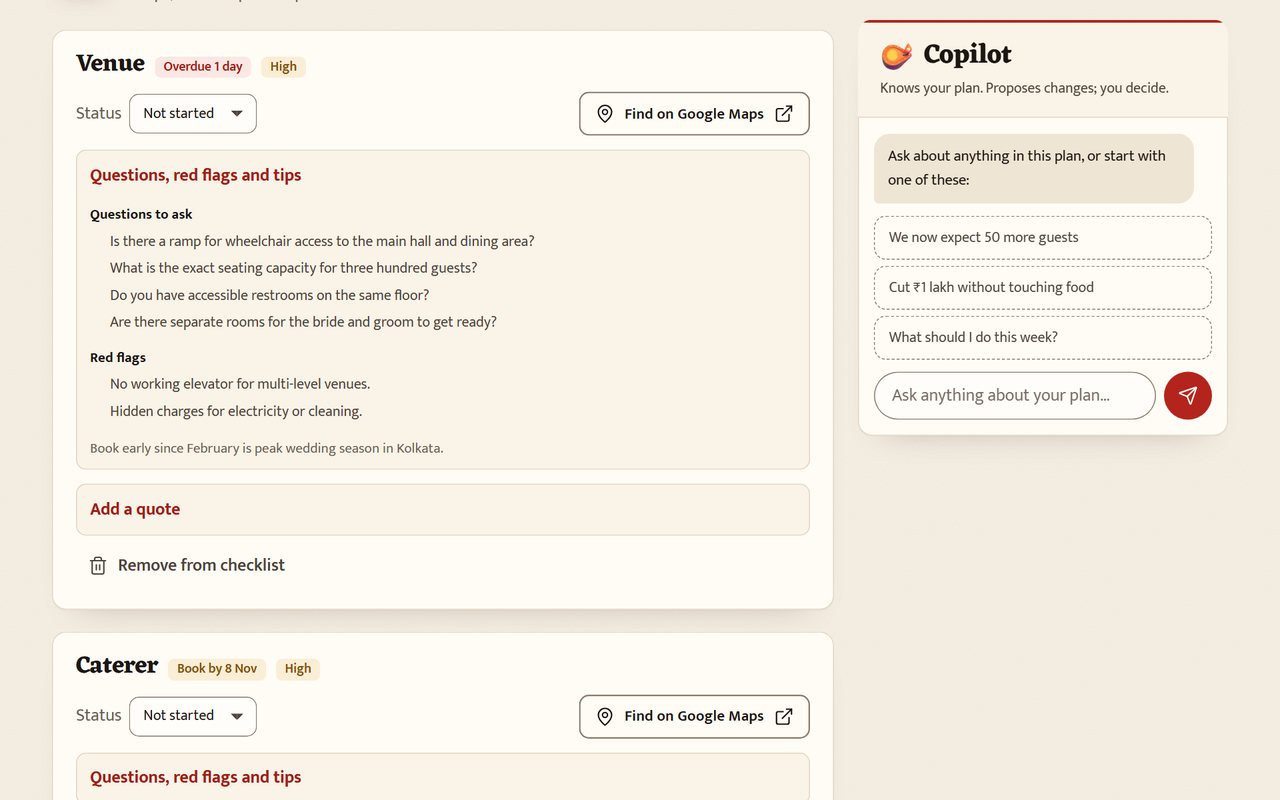
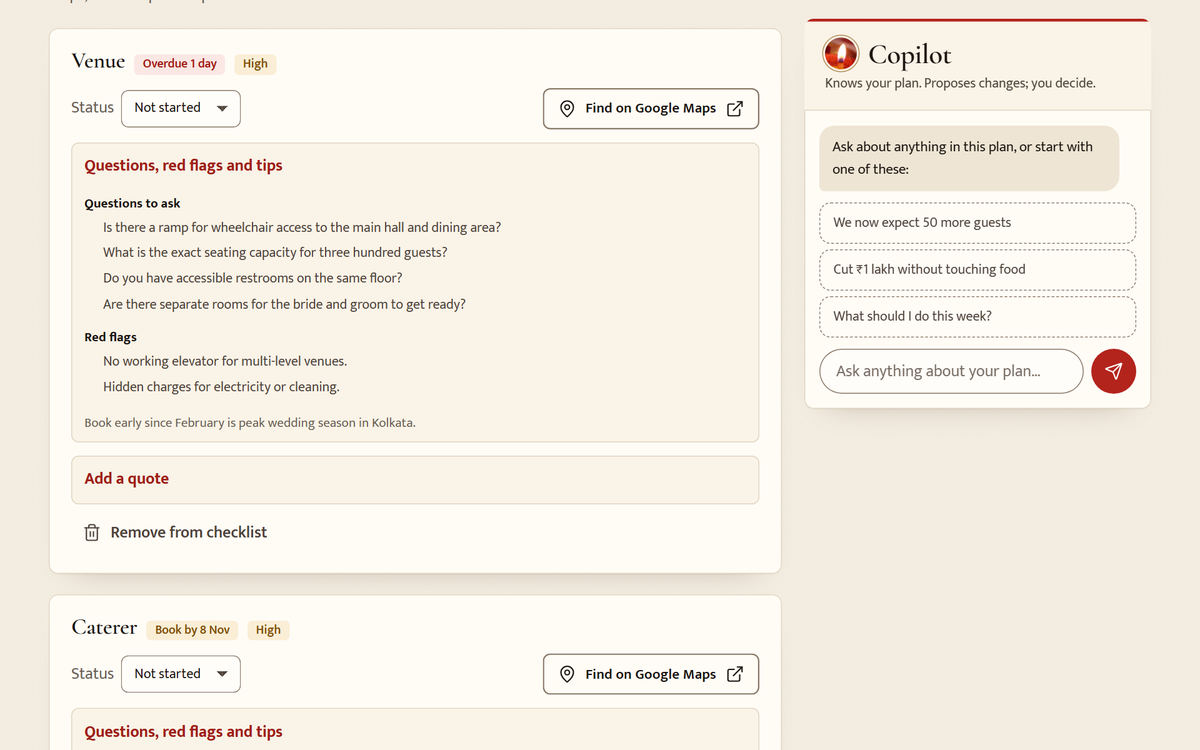
docs: the photographic design, photo credits and new screenshots
The design guide describes the photographs, the jharokha arch, the
invitation typography and the motion; the accessibility notes cover the
hero's Pause button; AGENTS.md rule 11 points to src/client/photos. The README
screenshots show the new look (1.4 MB, lighter than before), credit every
photographer, and carry the latest test figures.

diff --git a/README.md b/README.md
@@ -1,6 +1,6 @@
 <div align="center">
 
-<img src="docs/images/banner.jpg" width="100%" alt="Mehfil: one planner for every celebration. The headline beside a 3D puja thali with a lit diya, with a lotus, a ring, a birthday cake, marigolds, a balloon, an elephant and a gift floating around it">
+<img src="docs/images/banner.jpg" width="100%" alt="Mehfil: one planner for every celebration. The headline, with 'celebration' in maroon italic, above the box to describe a celebration; beside it, a photograph of a bride with folded hands in a pointed arch with a fine gold outline, a diya's flame in a round medallion at its foot, and the caption 'Shubh Vivah: Haldi to bidaai, with both families'">
 
 # Mehfil
 
@@ -108,17 +108,18 @@ rules. Every Gemini answer passes through deterministic rules that react to the 
 
 ## Screenshots
 
-Every occasion gets its own look. The home page stays calm and neutral; a plan takes on its
-occasion's colours, decorations and 3D objects, recognised from what you wrote in any of the
-three languages, and the first time it opens, the occasion plays for a few seconds.
+Every occasion gets its own look. The home page stays calm and neutral; a plan opens like its
+occasion's invitation card, in its colours and with its photograph, recognised from what you
+wrote in any of the three languages, and the first time it opens, the occasion plays for a few
+seconds.
 
 <p align="center">
-  <img src="docs/images/moods.jpg" width="100%" alt="Six plan headers: a wedding in a red border under a toran of 3D marigolds, with a ring and a bouquet; a Durga Puja in a red and gold sari border with a lotus and a hibiscus; a Ganesh Chaturthi with a turning sunburst, an elephant and a coconut; a birthday under bunting with balloons and a cake; a Diwali on a night sky with glowing hanging lanterns and a lit diya; and a neighbourhood festival under a toran with a kite">
+  <img src="docs/images/moods.jpg" width="100%" alt="Six plan headers set like invitation cards, each with a double border in its occasion's colour and its photograph in an arch: a wedding with a garlanded bride, a Durga Puja with the goddess's face in gold filigree and a red sari border, a Ganesh Chaturthi on saffron paper with a brass lamp before the idol, a birthday with candles on a cake, a Diwali night card with a ring of lamps round a rangoli, and a neighbourhood festival with two women celebrating with colour; each shows the days to go and how many of six parts have begun">
 </p>
 <p align="center">
-  <img src="docs/images/moments.jpg" width="100%" alt="Six celebration moments: the couple circling the havan fire for the pheras under 'Shubh Vivah', a dhaki drumming before red curtains under 'Shubho Sharodiya', rockets bursting over 'Shubh Deepavali' above a row of glowing diyas, an elephant under a sunburst and falling marigolds for 'Ganpati Bappa Morya!', balloons and confetti for 'Happy birthday!', and a ring of marigolds around a diya for 'Let the festival begin!'">
+  <img src="docs/images/moments.jpg" width="100%" alt="Six celebration moments, each a photograph filling the screen: feet circling the sacred fire under 'Shubh Vivah', dhakis drumming with feathered drums, rockets bursting over a ring of lamps under 'Shubh Deepavali', a brass lamp before Ganpati under 'Ganpati Bappa Morya!', confetti over birthday candles under 'Happy birthday!', and coloured powder over a crowd under 'Let the festival begin!'">
 </p>
-<p align="center"><sub>Celebration moments: the pheras round the fire, a dhaki drumming before the curtains part, rockets over Diwali, Ganpati, a birthday and other festivals. Each lasts a few seconds, ends on any key or a tap, and never plays for people who ask for reduced motion.</sub></p>
+<p align="center"><sub>Celebration moments: the saptapadi by the sacred fire, dhakis drumming before red sari curtains close and part, rockets over Diwali, Ganpati, a birthday and other festivals. Each lasts a few seconds, ends on any key or a tap, and never plays for people who ask for reduced motion.</sub></p>
 
 The plan below was tailored by real Gemini from one sentence: _"A Bengali wedding of Ananya and
 Rohan in Kolkata on 14 Feb 2027 for about 300 guests. Budget ₹18 lakh, mostly vegetarian, and my
@@ -127,11 +128,11 @@ grandparents need wheelchair access."_
 <table>
   <tr>
     <td width="50%" valign="top">
-      <img src="docs/images/wedding.jpg" alt="The wedding plan's header: a red border inside ivory paper under a toran of 3D marigolds and mango leaves, 'Shubh Vivah · Together with their families', Ananya and Rohan, Sunday 14 February 2027 in Kolkata for 300 guests and ₹18,00,000, a 3D ring and bouquet, the days to go above six diyas, two of them lit, and 'Celebrate again'; below, the section tabs, Gemini's summary and the Copilot">
-      <p><b>Every plan takes on its occasion.</b> The countdown, the key facts, and a diya for each part of the plan that has begun.</p>
+      <img src="docs/images/wedding.jpg" alt="The wedding plan's header as an invitation card: a double red border on ivory paper, 'Shubh Vivah · Together with their families' in small capitals, Ananya and Rohan, Sunday 14 February 2027 in Kolkata for 300 guests and ₹18,00,000, the days to go and how many parts have begun, and the bride's photograph in its arch; below, the section tabs, Gemini's summary and the Copilot">
+      <p><b>Every plan opens like its invitation.</b> The occasion's photograph in its arch, the countdown, the key facts and how many parts of the plan have begun.</p>
     </td>
     <td width="50%" valign="top">
-      <img src="docs/images/copilot.jpg" alt="The Copilot beside Today's focus: the request for 50 more guests and a mehendi night, the answer 'I suggest 2 changes', and ticked proposals for guests from 300 to 350 and a new task to plan and organise the mehendi night on 5 December, with Apply 2 changes and Dismiss buttons">
+      <img src="docs/images/copilot.jpg" alt="The Copilot beside Today's focus: the request for 50 more guests and a mehendi night, the answer 'I suggest 2 changes', and ticked proposals for guests from 300 to 350 and a new task to organise the mehendi night and its catering on 20 December, with Apply 2 changes and Dismiss buttons">
       <p><b>The Copilot proposes, you decide.</b> "We now expect 50 more guests, and we want a mehendi night too" becomes two changes to review, apply or dismiss.</p>
     </td>
   </tr>
@@ -141,7 +142,7 @@ grandparents need wheelchair access."_
       <p><b>A budget that adds up.</b> Gemini suggests each line's share and why; code computes every rupee, so the lines always meet the total.</p>
     </td>
     <td width="50%" valign="top">
-      <img src="docs/images/timeline.jpg" alt="The timeline grouped by phase: '3 to 6 months before' with 'Set the total budget and guest-list size' due today and 'Book the venue' due 6 November, both high priority and brought forward, then '1 to 3 months before' with the caterer, the photographer, the ceremony timings, the decorator and the outfits">
+      <img src="docs/images/timeline.jpg" alt="The timeline grouped by phase: '3 to 6 months before' with 'Set the total budget and guest-list size' a day overdue and 'Book the venue' due 6 November, both high priority and brought forward, then '1 to 3 months before' with the caterer, the photographer, the ceremony timings, the decorator and the outfits">
       <p><b>A timeline counted back from the date.</b> Grouped by how far ahead each task falls, brought forward when time is short, and exported to any calendar with reminders.</p>
     </td>
   </tr>
@@ -157,18 +158,18 @@ grandparents need wheelchair access."_
   </tr>
   <tr>
     <td width="50%" valign="top">
-      <img src="docs/images/home-hindi.jpg" alt="The home page in Hindi: the headline 'हर उत्सव के लिए एक योजनाकार।' with 'उत्सव' marked in marigold, a box to describe the celebration, and the 3D thali scene">
+      <img src="docs/images/home-hindi.jpg" alt="The home page in Hindi: the headline 'हर उत्सव के लिए एक योजनाकार।' with 'उत्सव' in maroon, a box to describe the celebration, and the bride's photograph in its arch">
       <p><b>English, Hindi and Bengali.</b> The whole interface switches language, and Gemini can write the plan in 16 languages.</p>
     </td>
     <td width="50%" valign="top">
-      <img src="docs/images/night-theme.jpg" alt="The same wedding plan in the night theme: warm ink black around the red border, the marigold toran, the ring and bouquet and the countdown">
+      <img src="docs/images/night-theme.jpg" alt="The same wedding plan in the night theme: warm ink black around the red double border, the bride's photograph in its arch, the countdown and the overview cards">
       <p><b>Day and night themes.</b> The day theme follows the device's setting until you choose. Every colour pair, in every occasion's colours, is checked for contrast in the tests.</p>
     </td>
   </tr>
 </table>
 
 <p align="center">
-  <img src="docs/images/phones.jpg" width="100%" alt="Three phones: the home page in Bengali, the wedding plan with its countdown and 3D diyas, and the Durga Puja moment with a dhaki drumming before red curtains">
+  <img src="docs/images/phones.jpg" width="100%" alt="Three phones: the home page in Bengali with the photograph under the headline, the wedding plan's invitation card with the photograph above the names, and the Durga Puja moment with a dhaki and his feathered drum">
 </p>
 <p align="center"><sub>On a phone: the home page in Bengali, a wedding plan, and the Durga Puja moment.</sub></p>
 
@@ -182,7 +183,7 @@ grandparents need wheelchair access."_
 | **Timelines**                                | Tasks scheduled back from the date and brought forward when time is short, grouped by phase, with priorities, filters and a countdown. A calendar file with reminders, "Add to Google Calendar" on every task, and a printable day-of run sheet for multi-day celebrations.                                         |
 | **Vendor checklists**                        | What to book and by when, a status pipeline from "not started" to "paid", questions to ask and red flags, quote comparison (the chosen quote counts in the budget), and a Google Maps search for each category in your city.                                                                                        |
 | **Personalised ideas**                       | Themes with colour palettes, food, decor, entertainment, activities, personal touches, favours and greener choices, shaped by your traditions, diets and budget. Keep the ones you like; ask for different ones in your own words.                                                                                  |
-| **Made for the occasion**                    | The plan takes on its occasion's colours, decorations and 3D objects (wedding, Durga Puja, Ganpati, birthday, Diwali or another festival), and the first time it opens it plays a few seconds of that celebration.                                                                                                  |
+| **Made for the occasion**                    | The plan opens like its occasion's invitation card, in its colours and with a real photograph of the festival (wedding, Durga Puja, Ganpati, birthday, Diwali or another festival), and the first time it opens it plays a few seconds of that celebration.                                                         |
 | **Beyond the brief**                         | A guest list with RSVPs and diets that feeds catering numbers (CSV import and export), an invitation writer for WhatsApp, email, cards and social posts, readiness at a glance, sync across devices, and read-only share links.                                                                                     |
 
 ## How Gemini is used
@@ -324,7 +325,7 @@ The full picture, including the data model and the request pipeline, is in
 
 | Check                                                                                             | Result                                                                                        |
 | ------------------------------------------------------------------------------------------------- | --------------------------------------------------------------------------------------------- |
-| Unit, integration and component tests (Vitest, Testing Library, jest-axe, fast-check)             | **800 passing**; 96.7 % of lines and 87.3 % of branches covered, with per-layer gates in CI   |
+| Unit, integration and component tests (Vitest, Testing Library, jest-axe, fast-check)             | **815 passing**; 97.4 % of lines and 88.8 % of branches covered, with per-layer gates in CI   |
 | Firestore Security Rules and the Firebase adapter (emulator)                                      | **13 passing**                                                                                |
 | Browser journeys (Playwright on desktop and a phone, axe on every page, reflow at 390 and 320 px) | **44 passing**                                                                                |
 | Gemini evaluation (six sample celebrations, real API)                                             | **6 of 6** pass every check                                                                   |
@@ -338,15 +339,15 @@ dependency audit. Details in [docs/TESTING.md](docs/TESTING.md).
 
 ## How it meets the judging criteria
 
-| Criterion             | What Mehfil does                                                                                                                                                                                                                                                                                                                                 | Evidence                                                                                 |
-| --------------------- | ------------------------------------------------------------------------------------------------------------------------------------------------------------------------------------------------------------------------------------------------------------------------------------------------------------------------------------------------ | ---------------------------------------------------------------------------------------- |
-| **Problem alignment** | Every part of the brief is a working, editable, saved feature (see [Features](#features)), with Gemini doing real planning work rather than chat, and decisions that follow the user's context (see [Approach and logic](#approach-and-logic)).                                                                                                  | `src/client/features/`, `e2e/plan.spec.ts`                                               |
-| **Code quality**      | Strict TypeScript and strict type-checked lint rules; one shared schema contract for browser, server and Gemini; one pure function for every edit, so undo is free; a dependency-injected server; typed translations, where a missing string fails the build; documented decisions.                                                              | `src/shared/`, `eslint.config.js`, [ADRs](docs/adr/)                                     |
-| **Security**          | The key stays on the server; a strict CSP with no inline code or `eval`; rate limits and Firebase token checks on AI calls; prompt-injection containment and output cleaning; tested Firestore rules; a CSV-injection guard; a secret scan in CI.                                                                                                | [SECURITY.md](SECURITY.md), `firestore.rules`, `src/server/security/`                    |
-| **Efficiency**        | AI suggests and code computes; sections stream in parallel; a response cache and per-model request budget for the free tier; a prerendered home page; the React Compiler memoises components; routes, languages, Firebase and dialogs load on demand; 3D pictures are small WebPs that wait until the page has loaded; Brotli; fonts per script. | [ARCHITECTURE.md](docs/ARCHITECTURE.md), [ADR 5](docs/adr/0005-prerender-and-hydrate.md) |
-| **Testing**           | 800 unit, integration and component tests (96.7 % of lines), 13 emulator tests for the Firestore rules and Firebase adapter, 44 browser journeys on desktop and phone, and an evaluation against real Gemini.                                                                                                                                    | [TESTING.md](docs/TESTING.md)                                                            |
-| **Accessibility**     | WCAG 2.2 AA: landmarks, focus management, labelled forms with an error summary, native dialogs, live announcements, tested contrast in both themes, reflow down to 320 px, reduced motion; axe in component and browser tests, and a keyboard-only journey.                                                                                      | [ACCESSIBILITY.md](docs/ACCESSIBILITY.md)                                                |
-| **Google services**   | Gemini, Firebase Authentication, Cloud Firestore, Google Calendar, Google Maps and Google Fonts.                                                                                                                                                                                                                                                 | [Google services](#google-services)                                                      |
+| Criterion             | What Mehfil does                                                                                                                                                                                                                                                                                                                                                             | Evidence                                                                                 |
+| --------------------- | ---------------------------------------------------------------------------------------------------------------------------------------------------------------------------------------------------------------------------------------------------------------------------------------------------------------------------------------------------------------------------- | ---------------------------------------------------------------------------------------- |
+| **Problem alignment** | Every part of the brief is a working, editable, saved feature (see [Features](#features)), with Gemini doing real planning work rather than chat, and decisions that follow the user's context (see [Approach and logic](#approach-and-logic)).                                                                                                                              | `src/client/features/`, `e2e/plan.spec.ts`                                               |
+| **Code quality**      | Strict TypeScript and strict type-checked lint rules; one shared schema contract for browser, server and Gemini; one pure function for every edit, so undo is free; a dependency-injected server; typed translations, where a missing string fails the build; documented decisions.                                                                                          | `src/shared/`, `eslint.config.js`, [ADRs](docs/adr/)                                     |
+| **Security**          | The key stays on the server; a strict CSP with no inline code or `eval`; rate limits and Firebase token checks on AI calls; prompt-injection containment and output cleaning; tested Firestore rules; a CSV-injection guard; a secret scan in CI.                                                                                                                            | [SECURITY.md](SECURITY.md), `firestore.rules`, `src/server/security/`                    |
+| **Efficiency**        | AI suggests and code computes; sections stream in parallel; a response cache and per-model request budget for the free tier; a prerendered home page; the React Compiler memoises components; routes, languages, Firebase and dialogs load on demand; photographs are small WebPs in several widths, and only the first screen's is fetched early; Brotli; fonts per script. | [ARCHITECTURE.md](docs/ARCHITECTURE.md), [ADR 5](docs/adr/0005-prerender-and-hydrate.md) |
+| **Testing**           | 815 unit, integration and component tests (97.4 % of lines), 13 emulator tests for the Firestore rules and Firebase adapter, 44 browser journeys on desktop and phone, and an evaluation against real Gemini.                                                                                                                                                                | [TESTING.md](docs/TESTING.md)                                                            |
+| **Accessibility**     | WCAG 2.2 AA: landmarks, focus management, labelled forms with an error summary, native dialogs, live announcements, tested contrast in both themes, reflow down to 320 px, reduced motion; axe in component and browser tests, and a keyboard-only journey.                                                                                                                  | [ACCESSIBILITY.md](docs/ACCESSIBILITY.md)                                                |
+| **Google services**   | Gemini, Firebase Authentication, Cloud Firestore, Google Calendar, Google Maps and Google Fonts.                                                                                                                                                                                                                                                                             | [Google services](#google-services)                                                      |
 
 ## Run it locally
 
@@ -469,10 +470,12 @@ Details in [docs/ACCESSIBILITY.md](docs/ACCESSIBILITY.md).
 ## Acknowledgements
 
 Built for **PromptWars Virtual 2026** by Hack2skill and Google for Developers. Fonts come from
-Google Fonts through Fontsource (SIL Open Font License), interface icons from Lucide (ISC
-License) and the 3D artwork from Microsoft's
-[Fluent Emoji](https://github.com/microsoft/fluentui-emoji) (MIT License, kept with the files in
-`src/client/art`).
+Google Fonts through Fontsource (SIL Open Font License) and interface icons from Lucide (ISC
+License). The festival photographs are openly licensed works by I.Mahesh, Symphoney Symphoney,
+Subhrajyoti07, Aditi Singh 7, AjoyDutta1997, iwhosee, Ryan Harvey, TAPAS KUMAR HALDER, Azimronnie
+and onejeet, from Wikimedia Commons and Flickr (CC BY-SA, CC BY and CC0); each work, author and
+licence is listed in [`src/client/photos/CREDITS.md`](src/client/photos/CREDITS.md) and in the
+app's footer.
 
 ## License
 

diff --git a/docs/DESIGN.md b/docs/DESIGN.md
@@ -1,8 +1,20 @@
 # Design: one planner, every occasion
 
-Mehfil means a gathering. The home page is calm and neutral, like good stationery: ivory paper,
-ink and a little gold. Each plan then takes on its own occasion, the way a wedding, a Durga Puja
-or a Diwali evening each has its own colours, decorations and sounds.
+Mehfil means a gathering. The design is a printed invitation with real photographs: ivory paper,
+ink, maroon and a little antique gold, with each occasion's colour coming from its photograph.
+The home page is calm and neutral; each plan then takes on its own occasion, the way a wedding,
+a Durga Puja or a Diwali evening each has its own colours, light and sounds.
+
+Four rules hold everywhere:
+
+1. **Photographs, not pictures.** Real photographs of each festival, never emoji, clip-art or
+   cartoon decorations.
+2. **The jharokha.** One signature shape, the pointed arch of palace windows and mandaps, frames
+   every photograph, with a fine gold outline.
+3. **Invitation typography.** Serif headlines, letter-spaced small capitals for labels, thin
+   rules, level numerals.
+4. **Quiet motion.** Slow crossfades and gentle zooms; nothing bounces, and all of it stops for
+   people who ask for less movement.
 
 ## Occasions
 
@@ -10,86 +22,96 @@ or a Diwali evening each has its own colours, decorations and sounds.
 from its name, kind of celebration and traditions, in English, Hindi or Bengali. The plan page
 puts the mood on `<html data-mood>`, so buttons, tabs, links and the focus ring all follow it.
 
-| Mood            | Recognised from                                 | Accent (day) | The plan's header                                                   | Celebration moment                                                 |
-| --------------- | ----------------------------------------------- | ------------ | ------------------------------------------------------------------- | ------------------------------------------------------------------ |
-| Neutral         | Anything else; the home page                    | Ink black    | A fine gold rule inside the paper, alpana corners, a gift           | None                                                               |
-| Wedding         | The wedding type                                | Sindoor red  | A red border (a lal paar) under a marigold toran, a ring, flowers   | The couple circles the havan fire for the pheras                   |
-| Durga Puja      | durga, navratri, pujo, दुर्गा, দুর্গা, শারদ …   | Durga red    | Bands of a garad sari, falling shiuli, a lotus and a hibiscus       | A dhaki drums, then curtains in a garad sari part to show the plan |
-| Ganpati         | ganesh, ganpati, chaturthi, गणेश, গণেশ …        | Saffron      | A slowly turning sunburst, a toran, an elephant and a coconut       | An elephant under the sunburst and a shower of marigolds           |
-| Birthday        | The birthday type                               | Rani pink    | Bunting, balloons and a cake                                        | Balloons rise and two cannons fire confetti                        |
-| Diwali          | diwali, deepavali, kali puja, दिवाली, দীপাবলি … | Brass        | A night sky in both themes, string lights, hanging lanterns, a diya | Rockets burst over a row of diyas lit from the middle outwards     |
-| Other festivals | Community events                                | Marigold     | A marigold toran, a kite and a lantern                              | A ring of marigolds around a diya                                  |
+| Mood            | Recognised from                                 | Accent (day) | Photograph in the header             | Celebration moment                                                     |
+| --------------- | ----------------------------------------------- | ------------ | ------------------------------------ | ---------------------------------------------------------------------- |
+| Neutral         | Anything else; the home page                    | Maroon       | A clay diya's flame                  | None                                                                   |
+| Wedding         | The wedding type                                | Sindoor red  | A bride with folded hands, garlanded | The saptapadi by the sacred fire, its light flickering, petals falling |
+| Durga Puja      | durga, navratri, pujo, दुर्गा, দুর্গা, শারদ …   | Durga red    | The goddess's face in gold filigree  | Dhakis drum to a beat, then curtains in a garad sari close and part    |
+| Ganpati         | ganesh, ganpati, chaturthi, गणेश, গণেশ …        | Saffron      | A brass lamp before the idol         | Marigold petals fall before the lamp                                   |
+| Birthday        | The birthday type                               | Rani pink    | Candles on a cake                    | Two cannons fire confetti over the candles                             |
+| Diwali          | diwali, deepavali, kali puja, दिवाली, দীপাবলি … | Brass        | A ring of lamps round a rangoli      | Rockets burst over the lamps, on a night card in both themes           |
+| Other festivals | Community events                                | Marigold     | Two women celebrating with colour    | Confetti in the colours of gulal over a festival of colours            |
+
+## Photographs
+
+The photographs (`src/client/photos`) are openly licensed works from Wikimedia Commons (its
+"Featured" and "Quality" photos were preferred) and Flickr. Each is cropped to a focal point and
+given the same light, warm grade so that photos by different people read as one album. Credits
+are in `src/client/photos/CREDITS.md`, in the app's footer and in the README.
+
+- **Arch photos** are 4:5, in 240, 480 and up to 720 pixels wide; a small source is never
+  enlarged. `Photo` picks the right file with `srcset` and `sizes`, reserves the space with its
+  width and height (so nothing shifts), and gives every photo empty alt text: the words beside
+  it carry the meaning.
+- **The home page's arch** (`HeroArch`) shows the wedding photo in the prerendered page, fetched
+  first; the other occasions arrive after the page has loaded and crossfade every five seconds,
+  each one fading in over the last. A Pause button stops them. A diya's flame sits in a round
+  medallion at the arch's foot.
+- **Each plan's header** is the occasion's invitation card: a double border in its colour, the
+  greeting in small capitals, the names or title, the countdown, the progress line and the
+  photograph in its arch. Durga Puja adds a garad sari's red border with a gold thread; Diwali is
+  a night card warmed by lamplight in both themes.
+- **The occasion cards, the form's occasion picker and the saved-plan tiles** show the same
+  photographs in smaller arches.
+- **Moment photos** are 16:10 and load only when a moment plays.
+
+Every file stays under 150 KB and all of them under 1.4 MB (`scripts/photo-budget.test.ts`);
+photos full of fine detail (filigree, rangoli) are softened very slightly before encoding.
+
+The progress line measures each plan: six thin segments, one per part (budget, timeline,
+vendors, guests, ideas, the day itself), filled once that part has begun, with the same count and
+the readiness in words beside them.
 
 ## Themes
 
-**Day** is ivory paper with ink and gold; **Night** is warm ink black with brass and lamplight.
-On a first visit the theme follows the device's light or dark setting; after that, the choice is
-remembered. Everything is a CSS custom property in `src/client/styles/tokens.css`.
+**Day** is ivory paper with ink, maroon and gold; **Night** is warm ink black with brass and
+lamplight. On a first visit the theme follows the device's light or dark setting; after that,
+the choice is remembered. Everything is a CSS custom property in `src/client/styles/tokens.css`.
 
-| Token                         | Day                  | Night                | Role                                 |
-| ----------------------------- | -------------------- | -------------------- | ------------------------------------ |
-| `--page`, `--surface`         | `#f6efe4`, `#fffcf6` | `#13100d`, `#1b1612` | Page and cards                       |
-| `--ink`, `--ink-2`, `--muted` | `#1c1612` …          | `#f4ebdd` …          | Text                                 |
-| `--accent`, `--on-accent`     | per mood             | per mood             | Main buttons, tabs, the countdown    |
-| `--label`, `--focus`          | per mood             | per mood             | Small accent text and the focus ring |
-| `--frame`, `--head`           | per mood             | per mood             | The header's border and paper        |
-| `--c1` … `--c6`               | chart colours        | chart colours        | Budget lines and the drawings        |
+| Token                         | Day                  | Night                | Role                                      |
+| ----------------------------- | -------------------- | -------------------- | ----------------------------------------- |
+| `--page`, `--surface`         | `#f6efe4`, `#fffcf6` | `#13100d`, `#1b1612` | Page and cards                            |
+| `--ink`, `--ink-2`, `--muted` | `#1c1612` …          | `#f4ebdd` …          | Text                                      |
+| `--accent`, `--on-accent`     | per mood             | per mood             | Main buttons, tabs, the countdown         |
+| `--label`, `--focus`          | per mood             | per mood             | Small capitals and the focus ring         |
+| `--frame`, `--head`           | per mood             | per mood             | The header's border and paper             |
+| `--arch-mask`, `--arch-line`  | pointed arch, gold   | pointed arch, brass  | Every photograph's window and its outline |
+| `--c1` … `--c6`               | chart colours        | chart colours        | Budget lines                              |
 
 `tokens.test.ts` checks every pair that carries text (4.5:1) and every accent and focus ring
 (3:1) in both themes and in every mood, including the Diwali header's own night colours.
 
 ## Type
 
-- **Eczar** (Rosetta) for headlines, names and numbers, with lining figures; it covers Devanagari.
-- **Mukta** (Ek Type) for everything you read and type, in Latin and Devanagari.
-- **Tiro Bangla** and **Noto Sans Bengali** for Bengali.
+- **Cormorant Garamond** for Latin headlines, names and numbers, set with level (lining)
+  figures.
+- **Eczar** for Devanagari headlines; **Tiro Bangla** for Bengali ones. Their scripts have no
+  true italic, so words that are italic in English stay upright in Hindi and Bengali.
+- **Mukta** for everything you read and type, in Latin and Devanagari; **Noto Sans Bengali** for
+  Bengali text.
+- Labels, greetings and kickers are small capitals with wide letter-spacing in English, and
+  plain text in Hindi and Bengali.
 
 Fonts are self-hosted and split by script, so a script's font downloads only when it is on
 screen. A rupee-only subset (under 1 KB) carries the ₹ sign, and Hindi or Bengali words inside
-text in another language use the system's fonts (`MixedScript`), so the English home page loads
-four small font files.
-
-## Motifs
-
-**Objects are 3D pictures.** Diyas, marigolds, the lotus, Ganpati's elephant, the ring, the cake,
-balloons, lanterns and the rest come from Microsoft's
-[Fluent Emoji](https://github.com/microsoft/fluentui-emoji) 3D set (MIT License, kept in
-`src/client/art/LICENSE`). Each is a WebP at 256 pixels with a 96-pixel copy for small sizes:
-50 files, 200 KB in all, and a page fetches only the ones it shows. The `Art` component draws
-them, always with empty alt text, because the words beside a picture carry its meaning.
-
-- **The home page's scene** (`CelebrationPlate`) is a puja thali with a lit diya and the things
-  each celebration brings floating around it. It is one image with a spoken description; with a
-  mouse, its objects shift with depth as the pointer moves.
-- **Each plan's header** has a small cluster of objects for its occasion (`MoodArt`).
-- **Pictures on the first screen wait for the page to load** (`afterLoad`): they hold their space,
-  so nothing jumps, and fade in once the text and fonts are in. The rest load lazily.
-
-**Patterns are drawn in code** (SVG and CSS): the toran, bunting, string lights, the sunburst,
-falling shiuli, alpana corners and the wedding couple and dhaki of the moments. A toran's
-marigolds are the same 3D picture placed with `<image>`. Colour comes from `currentColor` or
-classes, never inline styles, because the Content-Security-Policy forbids them.
-
-A row of diyas measures each plan: one per part (budget, timeline, vendors, guests, ideas, the
-day itself), lit once that part has begun, with the whole picture as its accessible name.
+text in another language use the system's fonts (`MixedScript`). The English home page preloads
+the two headline faces (regular and italic) and Mukta.
 
 ## Motion
 
-- **Loops** (garlands sway, bulbs twinkle, flames flicker, shiuli fall) wait until the page has
-  loaded, so the first paint is not competing with them, and stop under
-  `prefers-reduced-motion`. Pivots use `transform-box: fill-box`, so no element needs an inline
-  style.
-- **The home page's scene** floats, each object at its own pace, and follows the pointer with
-  depth.
+- **The home page's arch** crossfades through the occasions, each photo drifting a little
+  closer; a Pause button stops it (WCAG 2.2.2).
+- **A plan's photo settles** into its arch once, as the plan opens.
 - **Cards rise into view** as you scroll, driven by CSS scroll timelines: no script, nothing can
   flash, and anything on screen at load is already in place.
 - **Pages cross-fade** with the View Transitions API (`src/client/app/view-transition.ts`).
-- **The countdown counts up** and the diyas light with a small flare.
+- **The countdown counts up** as a plan opens.
 - **Celebration moments** (`src/client/features/moments`) play the first time a plan opens on a
-  device, for three to four seconds. They are loaded only when they play (about 10 KB
-  compressed, plus their pictures), end on Skip, a click or any key, return focus to the plan's
-  heading, never play for people who ask for reduced motion, and can be replayed with "Celebrate
-  again". The Diwali rockets and birthday confetti are a small canvas particle system with
+  device, for three to four seconds: the photograph opens out of the arch to fill the screen
+  while the cheer rises over a dark scrim. They wait briefly for their photograph (and quietly
+  skip on a slow connection), end on Skip, a click or any key, return focus to the plan's
+  heading, never play for people who ask for reduced motion, and can be replayed with
+  "Celebrate again". The Diwali rockets and the confetti are a small canvas particle system with
   seeded, tested physics (`show.ts`).
 
 Nothing that conveys information moves; every animation is decoration on top of content that
@@ -97,6 +119,8 @@ reads the same without it.
 
 ## Layout rules
 
+- The home page's hero puts the arch beside the headline and the description on a wide screen,
+  and right under the headline on a phone.
 - Cards sit on a two-column grid on wide screens and one column on phones; the Copilot sits
   beside the plan on desktop and below it on smaller screens.
 - Nothing scrolls sideways at any width; wide tables scroll inside their own box, and the plan's

diff --git a/docs/ACCESSIBILITY.md b/docs/ACCESSIBILITY.md
@@ -29,10 +29,10 @@ Bengali. Automated checks run at three levels, and the patterns below are used t
 - Dialogs use the native `<dialog>` element: focus is trapped inside, Escape closes them and focus
   returns to the button that opened them.
 - Status is never shown by colour alone: pills, checkboxes and badges always carry text or icons.
-- Charts and decorative drawings are either hidden from assistive technology or given a text
-  equivalent (the row of diyas reads out each part's progress; the home page's 3D scene is one
-  labelled picture). Every 3D picture has empty alt text, because the words beside it carry its
-  meaning.
+- Charts are given a text equivalent, and photographs are decoration: every photo has empty alt
+  text, because the words beside it carry its meaning. The home page's arch of photographs is one
+  labelled picture, and a plan's progress is written out in words beside its progress line (with
+  each part's own progress for screen readers).
 - Celebration moments are decorative and hidden from assistive technology. They never take
   focus; Skip, a click or any key ends one at once, so keyboard focus never lands behind it, and
   if focus was on its Skip button it returns to the plan's heading.
@@ -48,8 +48,10 @@ Bengali. Automated checks run at three levels, and the patterns below are used t
 - Main and icon buttons are at least 44 by 44 pixels. Compact controls (filters, the language
   switch, disclosure toggles and inline fields) are at least 32 pixels tall, above the 24-pixel
   minimum in WCAG 2.2.
-- Looping decorations wait until the page has loaded and stop entirely with
-  `prefers-reduced-motion`. With reduced motion there are also no page cross-fades, no counting
+- The home page's photographs turn every five seconds only after the page has loaded, and a
+  Pause button (a toggle with `aria-pressed`) stops them, as WCAG 2.2.2 asks of anything that
+  moves for more than five seconds. Looping decorations stop entirely with
+  `prefers-reduced-motion`, which also leaves the arch on one still photograph. With reduced motion there are also no page cross-fades, no counting
   numbers, no scroll reveals and no celebration moments (they never play by themselves, and the
   replay button is hidden). A forced-colours mode style keeps controls visible in Windows high
   contrast.

diff --git a/docs/TESTING.md b/docs/TESTING.md
@@ -5,12 +5,12 @@ test is fast, free and repeatable.
 
 | Layer                           | Command                                            | Count                   | What it covers                                                                                         |
 | ------------------------------- | -------------------------------------------------- | ----------------------- | ------------------------------------------------------------------------------------------------------ |
-| Unit, integration and component | `npm test` (`npm run test:coverage` for the gates) | 800 tests in 65 files   | Planning engine, AI gateway and API, client state, sync, every page and section with axe               |
+| Unit, integration and component | `npm test` (`npm run test:coverage` for the gates) | 815 tests in 70 files   | Planning engine, AI gateway and API, client state, sync, every page and section with axe               |
 | Firebase emulators              | `npm run test:rules` (needs Java 21)               | 13 tests                | Firestore Security Rules and the Firebase adapter against the Auth and Firestore emulators             |
 | Browser journeys                | `npm run e2e` (after `npm run build`)              | 22 journeys × 2 devices | Real Chromium on desktop and a Pixel 7, with axe on every page and reflow checks at 390 and 320 px too |
 | Lighthouse                      | `npx @lhci/cli@0.15.1 autorun` (CI)                | 2 pages × 3 runs        | Accessibility 100 and best practices ≥ 95 enforced; performance and SEO tracked                        |
 
-Coverage on the last run: **96.7 % of lines, 87.3 % of branches, 95.2 % of functions**. CI fails
+Coverage on the last run: **97.4 % of lines, 88.8 % of branches, 95.5 % of functions**. CI fails
 if the shared engine or the server drop below 90 % of lines, or the client below 80 %.
 
 ## What each layer proves

diff --git a/AGENTS.md b/AGENTS.md
@@ -44,11 +44,14 @@ what every automated test uses.
    a shorthand without a name into `animation: none`.
 10. **Occasions come from data.** A plan's look comes from `moodFor()` in
     `src/shared/domain/mood.ts`; give a new mood its tokens in `tokens.css` (the contrast test
-    covers them), its header art in `MoodArt.tsx` and, if it has one, a moment in
+    covers them), its photographs in `src/client/photos` and, if it has one, a moment in
     `features/moments`.
-11. **Pictures are decoration.** 3D artwork lives in `src/client/art` as a 256-pixel WebP and a
-    `-sm` copy; add its name to `ART_NAMES` and draw it with `<Art>`, which gives it empty alt
-    text. Pictures on the first screen take `afterLoad`, so text and fonts arrive first.
+11. **Photographs, not pictures.** The look comes from real, openly licensed photographs in
+    `src/client/photos` (4:5 arch photos in 240, 480 and up to 720 pixels; 16:10 moment photos),
+    never emoji or clip-art. Draw them with `<Photo>` inside `<Arch>`, which gives them empty alt
+    text and a reserved size; only the first screen's photo takes `priority`. Credit every new
+    photo in `credits.ts` and `CREDITS.md`; `scripts/photo-budget.test.ts` keeps each file under
+    150 KB.
 
 ## Writing style
 
